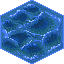
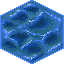
* Renamed ResourcePile to Minerals.js * Sprites: updated factory, minerals and dirt sprites.

diff --git a/Core/Gameplay/PlaceableFactory/UnitsDefinitions.js b/Core/Gameplay/PlaceableFactory/UnitsDefinitions.js
@@ -56,7 +56,7 @@ UnitsDefinitions[Player.Races.Developers] = {
 
 			this[GameWorldTerrainType.Base] =		{ Cost: 1, Attack: 0, Defence: 0};
 			this[GameWorldTerrainType.HQ] =			{ Cost: 1, Attack: 0, Defence: 0};
-			this[GameWorldTerrainType.ResourcePile] =		{ Cost: 1, Attack: 0, Defence: 0};
+			this[GameWorldTerrainType.Minerals] =		{ Cost: 1, Attack: 0, Defence: 0};
 			this[GameWorldTerrainType.Factory] =	{ Cost: 1, Attack: 0, Defence: 0};
 			this[GameWorldTerrainType.Medical] =	{ Cost: 1, Attack: 0, Defence: 0};
 		},
@@ -92,7 +92,7 @@ UnitsDefinitions[Player.Races.Developers] = {
 
 			this[GameWorldTerrainType.Base] =		{ Cost: 1, Attack: 0, Defence: 0};
 			this[GameWorldTerrainType.HQ] =			{ Cost: 1, Attack: 0, Defence: 0};
-			this[GameWorldTerrainType.ResourcePile] =		{ Cost: 1, Attack: 0, Defence: 0};
+			this[GameWorldTerrainType.Minerals] =		{ Cost: 1, Attack: 0, Defence: 0};
 			this[GameWorldTerrainType.Factory] =	{ Cost: 1, Attack: 0, Defence: 0};
 			this[GameWorldTerrainType.Medical] =	{ Cost: 1, Attack: 0, Defence: 0};
 		},
@@ -130,7 +130,7 @@ UnitsDefinitions[Player.Races.Developers] = {
 
 			this[GameWorldTerrainType.Base] =		{ Cost: 1, Attack: 0, Defence: 0};
 			this[GameWorldTerrainType.HQ] =			{ Cost: 1, Attack: 0, Defence: 0};
-			this[GameWorldTerrainType.ResourcePile] =		{ Cost: 1, Attack: 0, Defence: 0};
+			this[GameWorldTerrainType.Minerals] =		{ Cost: 1, Attack: 0, Defence: 0};
 			this[GameWorldTerrainType.Factory] =	{ Cost: 1, Attack: 0, Defence: 0};
 			this[GameWorldTerrainType.Harbour] =	{ Cost: 1, Attack: 0, Defence: 0};
 			this[GameWorldTerrainType.Medical] =	{ Cost: 1, Attack: 0, Defence: 0};
@@ -175,7 +175,7 @@ UnitsDefinitions[Player.Races.Humans] = {
 
 			this[GameWorldTerrainType.Base] =		{ Cost: 1, Attack: 1, Defence: 2};
 			this[GameWorldTerrainType.HQ] =			{ Cost: 1, Attack: 1, Defence: 2};
-			this[GameWorldTerrainType.ResourcePile] =		{ Cost: 1, Attack: 1, Defence: 1};
+			this[GameWorldTerrainType.Minerals] =		{ Cost: 1, Attack: 1, Defence: 1};
 			this[GameWorldTerrainType.Factory] =	{ Cost: 1, Attack: 1, Defence: 1};
 			this[GameWorldTerrainType.Medical] =	{ Cost: 1, Attack: 1, Defence: 0};
 		},
@@ -214,7 +214,7 @@ UnitsDefinitions[Player.Races.Humans] = {
 
 			this[GameWorldTerrainType.Base] =		{ Cost: 1, Attack: 0, Defence: -1};
 			this[GameWorldTerrainType.HQ] =			{ Cost: 1, Attack: 0, Defence: -1};
-			this[GameWorldTerrainType.ResourcePile] =		{ Cost: 1, Attack: 0, Defence: -1};
+			this[GameWorldTerrainType.Minerals] =		{ Cost: 1, Attack: 0, Defence: -1};
 			this[GameWorldTerrainType.Factory] =	{ Cost: 1, Attack: 0, Defence: -1};
 			this[GameWorldTerrainType.Medical] =	{ Cost: 1, Attack: 0, Defence: -1};
 		},
@@ -252,7 +252,7 @@ UnitsDefinitions[Player.Races.Humans] = {
 
 			this[GameWorldTerrainType.Base] =		{ Cost: 1, Attack: 0, Defence: -1};
 			this[GameWorldTerrainType.HQ] =			{ Cost: 1, Attack: 0, Defence: -1};
-			this[GameWorldTerrainType.ResourcePile] =		{ Cost: 1, Attack: 0, Defence: -1};
+			this[GameWorldTerrainType.Minerals] =		{ Cost: 1, Attack: 0, Defence: -1};
 			this[GameWorldTerrainType.Factory] =	{ Cost: 1, Attack: 0, Defence: -1};
 			this[GameWorldTerrainType.Medical] =	{ Cost: 1, Attack: 0, Defence: 1};
 		},
@@ -291,7 +291,7 @@ UnitsDefinitions[Player.Races.Humans] = {
 
 			this[GameWorldTerrainType.Base] =		{ Cost: 1, Attack: 0, Defence: -1};
 			this[GameWorldTerrainType.HQ] =			{ Cost: 1, Attack: 0, Defence: -1};
-			this[GameWorldTerrainType.ResourcePile] =		{ Cost: 1, Attack: 0, Defence: -1};
+			this[GameWorldTerrainType.Minerals] =		{ Cost: 1, Attack: 0, Defence: -1};
 			this[GameWorldTerrainType.Factory] =	{ Cost: 1, Attack: 0, Defence: -1};
 			this[GameWorldTerrainType.Medical] =	{ Cost: 1, Attack: 0, Defence: 0};
 		},
@@ -331,7 +331,7 @@ UnitsDefinitions[Player.Races.Humans] = {
 
 			this[GameWorldTerrainType.Base] =		{ Cost: 1, Attack: 0, Defence: -1};
 			this[GameWorldTerrainType.HQ] =			{ Cost: 1, Attack: 0, Defence: -1};
-			this[GameWorldTerrainType.ResourcePile] =		{ Cost: 1, Attack: 0, Defence: -1};
+			this[GameWorldTerrainType.Minerals] =		{ Cost: 1, Attack: 0, Defence: -1};
 			this[GameWorldTerrainType.Factory] =	{ Cost: 1, Attack: 0, Defence: -1};
 			this[GameWorldTerrainType.Medical] =	{ Cost: 1, Attack: 0, Defence: 0};
 		},
@@ -375,7 +375,7 @@ UnitsDefinitions[Player.Races.JunkPeople] = {
 
 			this[GameWorldTerrainType.Base] =		{ Cost: 1, Attack: 1, Defence: 2};
 			this[GameWorldTerrainType.HQ] =			{ Cost: 1, Attack: 1, Defence: 2};
-			this[GameWorldTerrainType.ResourcePile] =		{ Cost: 1, Attack: 1, Defence: 2};
+			this[GameWorldTerrainType.Minerals] =		{ Cost: 1, Attack: 1, Defence: 2};
 			this[GameWorldTerrainType.Factory] =	{ Cost: 1, Attack: 1, Defence: 2};
 			this[GameWorldTerrainType.Medical] =	{ Cost: 1, Attack: 1, Defence: 0};
 		},
@@ -414,7 +414,7 @@ UnitsDefinitions[Player.Races.JunkPeople] = {
 
 			this[GameWorldTerrainType.Base] =		{ Cost: 1, Attack: 0, Defence: -1};
 			this[GameWorldTerrainType.HQ] =			{ Cost: 1, Attack: 0, Defence: -1};
-			this[GameWorldTerrainType.ResourcePile] =		{ Cost: 1, Attack: 0, Defence: -1};
+			this[GameWorldTerrainType.Minerals] =		{ Cost: 1, Attack: 0, Defence: -1};
 			this[GameWorldTerrainType.Factory] =	{ Cost: 1, Attack: 0, Defence: -1};
 			this[GameWorldTerrainType.Medical] =	{ Cost: 1, Attack: 0, Defence: -1};
 		},
@@ -450,7 +450,7 @@ UnitsDefinitions[Player.Races.JunkPeople] = {
 
 			this[GameWorldTerrainType.Base] =		{ Cost: 1, Attack: 0, Defence: -1};
 			this[GameWorldTerrainType.HQ] =			{ Cost: 1, Attack: 0, Defence: -1};
-			this[GameWorldTerrainType.ResourcePile] =		{ Cost: 1, Attack: 0, Defence: -1};
+			this[GameWorldTerrainType.Minerals] =		{ Cost: 1, Attack: 0, Defence: -1};
 			this[GameWorldTerrainType.Factory] =	{ Cost: 1, Attack: 0, Defence: -1};
 			this[GameWorldTerrainType.Medical] =	{ Cost: 1, Attack: 0, Defence: -1};
 		},
@@ -488,7 +488,7 @@ UnitsDefinitions[Player.Races.JunkPeople] = {
 
 			this[GameWorldTerrainType.Base] =		{ Cost: 1, Attack: 0, Defence: -1};
 			this[GameWorldTerrainType.HQ] =			{ Cost: 1, Attack: 0, Defence: -1};
-			this[GameWorldTerrainType.ResourcePile] =		{ Cost: 1, Attack: 0, Defence: -1};
+			this[GameWorldTerrainType.Minerals] =		{ Cost: 1, Attack: 0, Defence: -1};
 			this[GameWorldTerrainType.Factory] =	{ Cost: 1, Attack: 0, Defence: -1};
 			this[GameWorldTerrainType.Medical] =	{ Cost: 1, Attack: 0, Defence: -1};
 		},
@@ -525,7 +525,7 @@ UnitsDefinitions[Player.Races.JunkPeople] = {
 
 			this[GameWorldTerrainType.Base] =		{ Cost: 1, Attack: 0, Defence: -1};
 			this[GameWorldTerrainType.HQ] =			{ Cost: 1, Attack: 0, Defence: -1};
-			this[GameWorldTerrainType.ResourcePile] =		{ Cost: 1, Attack: 0, Defence: -1};
+			this[GameWorldTerrainType.Minerals] =		{ Cost: 1, Attack: 0, Defence: -1};
 			this[GameWorldTerrainType.Factory] =	{ Cost: 1, Attack: 0, Defence: -1};
 			this[GameWorldTerrainType.Medical] =	{ Cost: 1, Attack: 0, Defence: 0};
 		},

diff --git a/MobileClient/www/Javascript/ClientStates/TestGame.js b/MobileClient/www/Javascript/ClientStates/TestGame.js
@@ -110,7 +110,7 @@ ClientStateManager.registerState(ClientStateManager.types.TestGame, new function
 
 				if (i == 2 && j == 4) {
 					tile.addComponentSafe(CTileOwner);
-					tile.CTileTerrain.type = GameWorldTerrainType.ResourcePile;
+					tile.CTileTerrain.type = GameWorldTerrainType.Minerals;
 					tile.CTileOwner.owner = playersData.players[0];
 				}
 
@@ -135,14 +135,14 @@ ClientStateManager.registerState(ClientStateManager.types.TestGame, new function
 
 				if (i == 3 && j == 9) {
 					tile.addComponentSafe(CTileOwner);
-					tile.CTileTerrain.type = GameWorldTerrainType.ResourcePile;
+					tile.CTileTerrain.type = GameWorldTerrainType.Minerals;
 					tile.CTileOwner.owner = playersData.players[1];
 				}
 
 				// No one
 				if (i == 6 && j == 7) {
 					tile.addComponentSafe(CTileOwner);
-					tile.CTileTerrain.type = GameWorldTerrainType.ResourcePile;
+					tile.CTileTerrain.type = GameWorldTerrainType.Minerals;
 				}
 
 

diff --git a/MobileClient/www/index.html b/MobileClient/www/index.html
@@ -440,7 +440,7 @@
 
 			<script type="text/javascript" src="Assets/Render/SpriteAnimations/World/Base.js"></script>
 			<script type="text/javascript" src="Assets/Render/SpriteAnimations/World/HQ.js"></script>
-			<script type="text/javascript" src="Assets/Render/SpriteAnimations/World/ResourcePile.js"></script>
+			<script type="text/javascript" src="Assets/Render/SpriteAnimations/World/Minerals.js"></script>
 			<script type="text/javascript" src="Assets/Render/SpriteAnimations/World/Factory.js"></script>
 
 			<script type="text/javascript" src="Assets/Render/SpriteAnimations/Units/TeslaTrooper.js"></script>

diff --git a/MobileClient/www/Assets/Render/SpriteAnimations/World/Minerals.js b/MobileClient/www/Assets/Render/SpriteAnimations/World/Minerals.js
@@ -1,12 +1,14 @@
 
-SpriteAnimations.World.Factory = {
+SpriteAnimations.World.Minerals = {
 
-	resourcePath: 'Factory.png',
+	resourcePath: 'Minerals.png',
 	
 	frameWidth: 64,
 	frameHeight: 64,
+	
+	framesPerRow: 0,
 
-	speed: 16,
+	speed: 12,
 	
 	sequences: [
 		{
@@ -15,11 +17,11 @@ SpriteAnimations.World.Factory = {
 			frames: 1,
 		},
 
-
 		{
 			name: 'Idle0',
 			startIndex: 0,
 			frames: 5,
+			wrapMode: Animator.WrapMode.OnceReverse,
 		},
 	]
 };

diff --git a/Core/Gameplay/Systems/TileStructuresSystem.js b/Core/Gameplay/Systems/TileStructuresSystem.js
@@ -156,7 +156,7 @@ TileStructuresSystem.isStructureTile = function (entity) {
 	return terrain && (
 		terrain.type == GameWorldTerrainType.Base ||
 		terrain.type == GameWorldTerrainType.HQ ||
-		terrain.type == GameWorldTerrainType.ResourcePile ||
+		terrain.type == GameWorldTerrainType.Minerals ||
 		terrain.type == GameWorldTerrainType.Factory ||
 		terrain.type == GameWorldTerrainType.Harbour ||
 		terrain.type == GameWorldTerrainType.Medical ||

diff --git a/Core/Gameplay/TerrainType.js b/Core/Gameplay/TerrainType.js
@@ -14,7 +14,7 @@ var GameWorldTerrainType = {
 		/* Special tiles */
 		Base: 0,
 		HQ: 0,
-		ResourcePile: 0,
+		Minerals: 0,
 		Factory: 0,
 		Harbour: 0,
 		Medical: 0,
